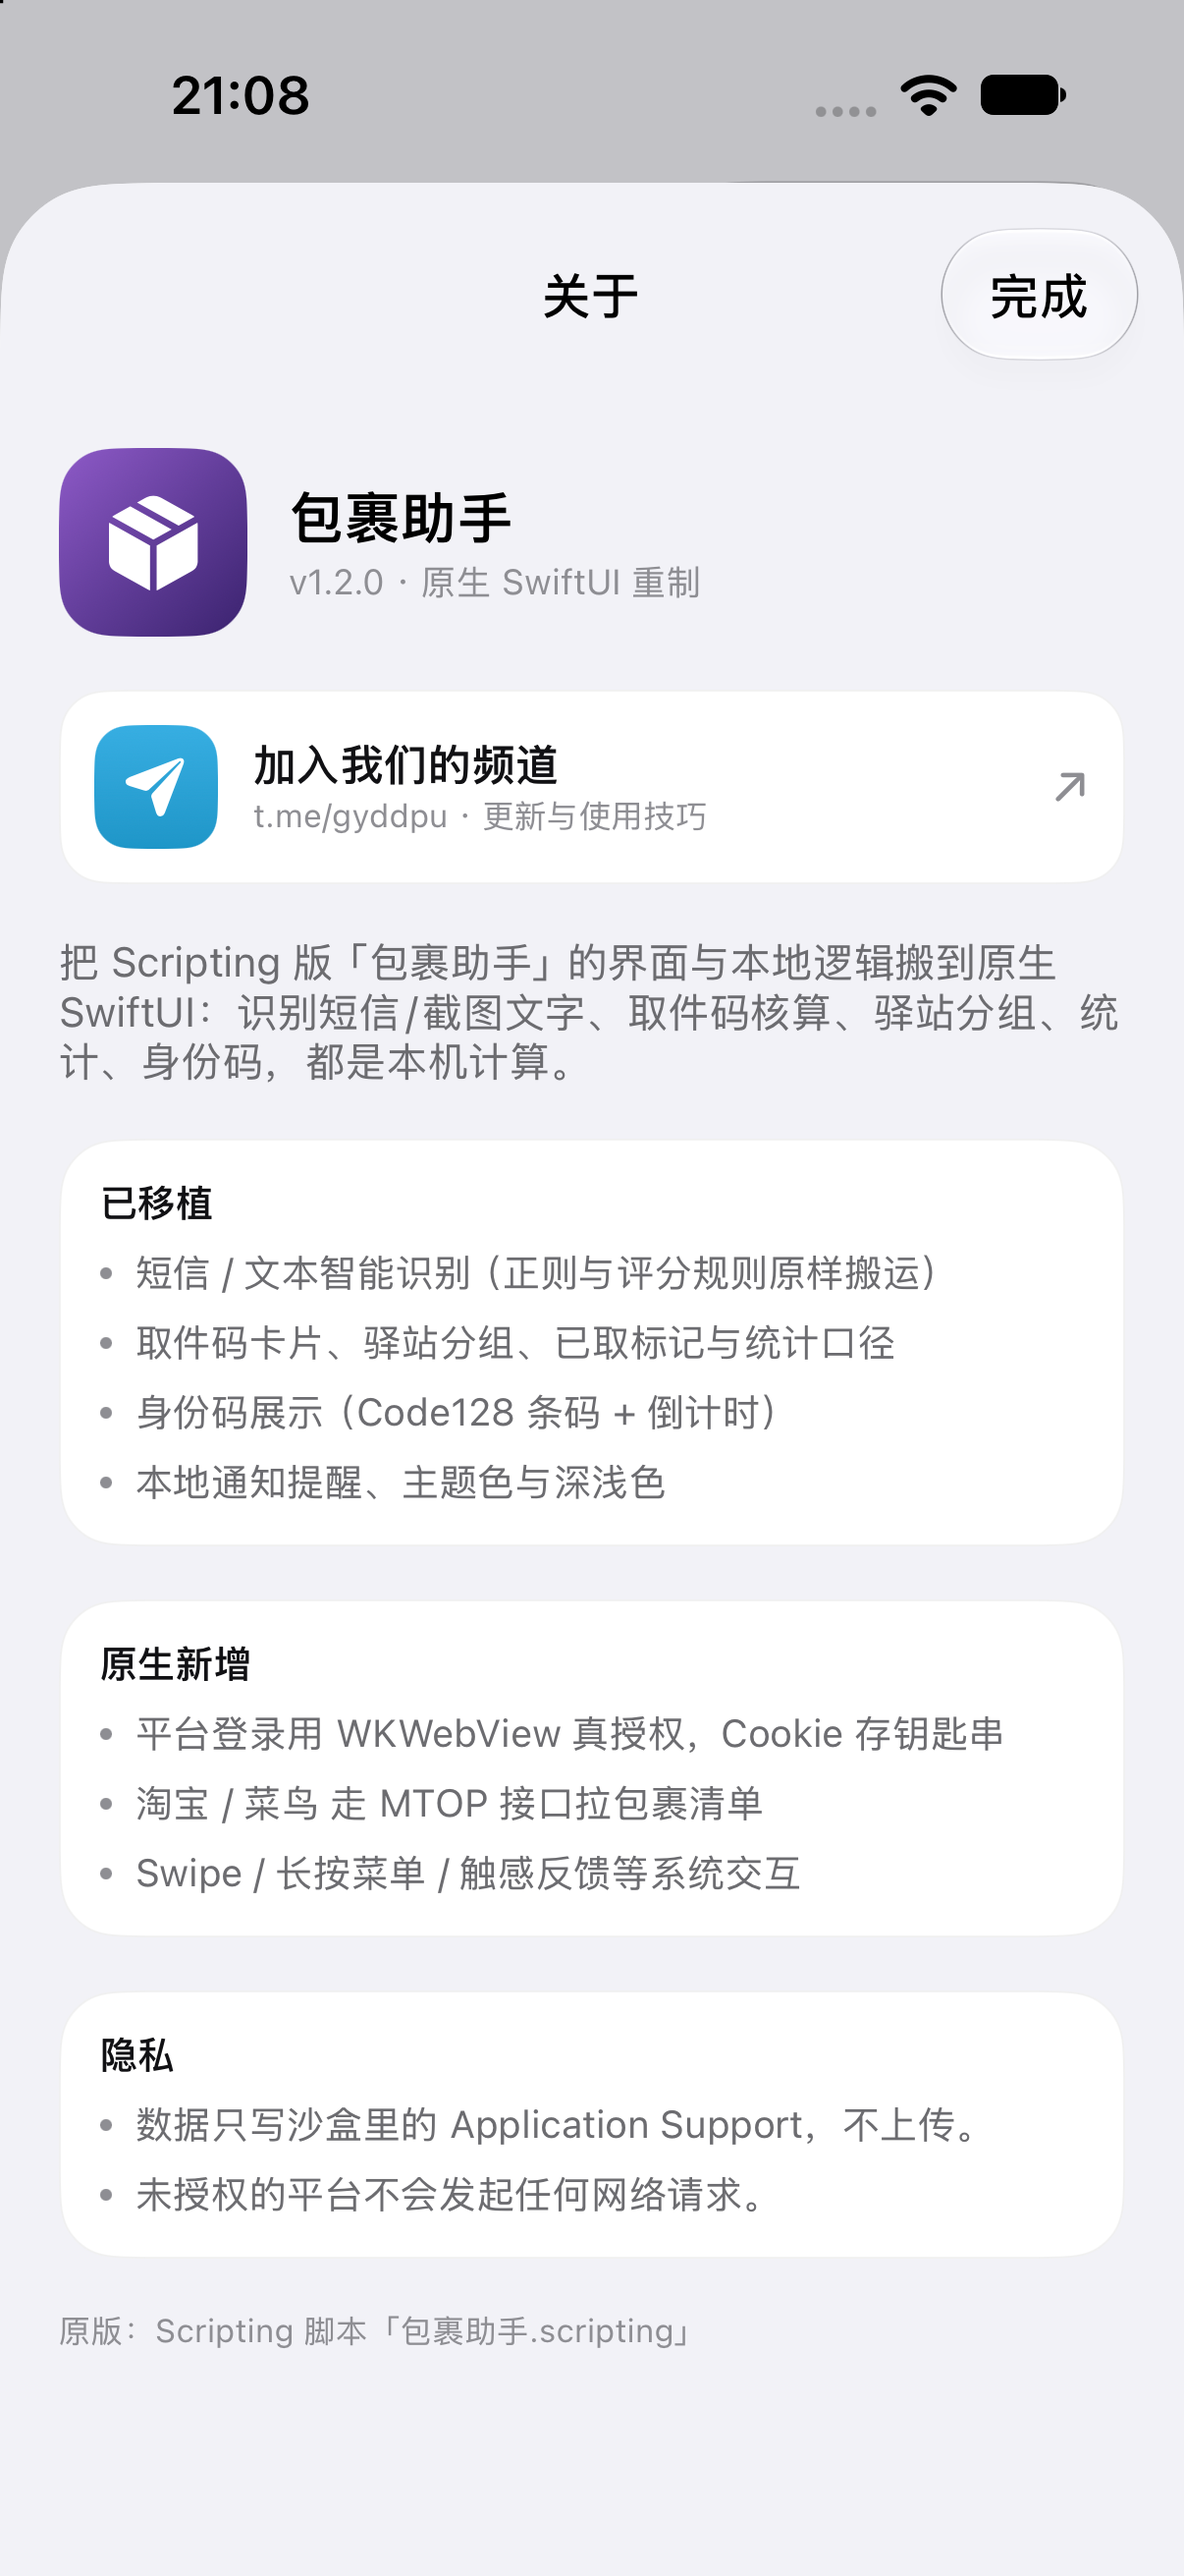
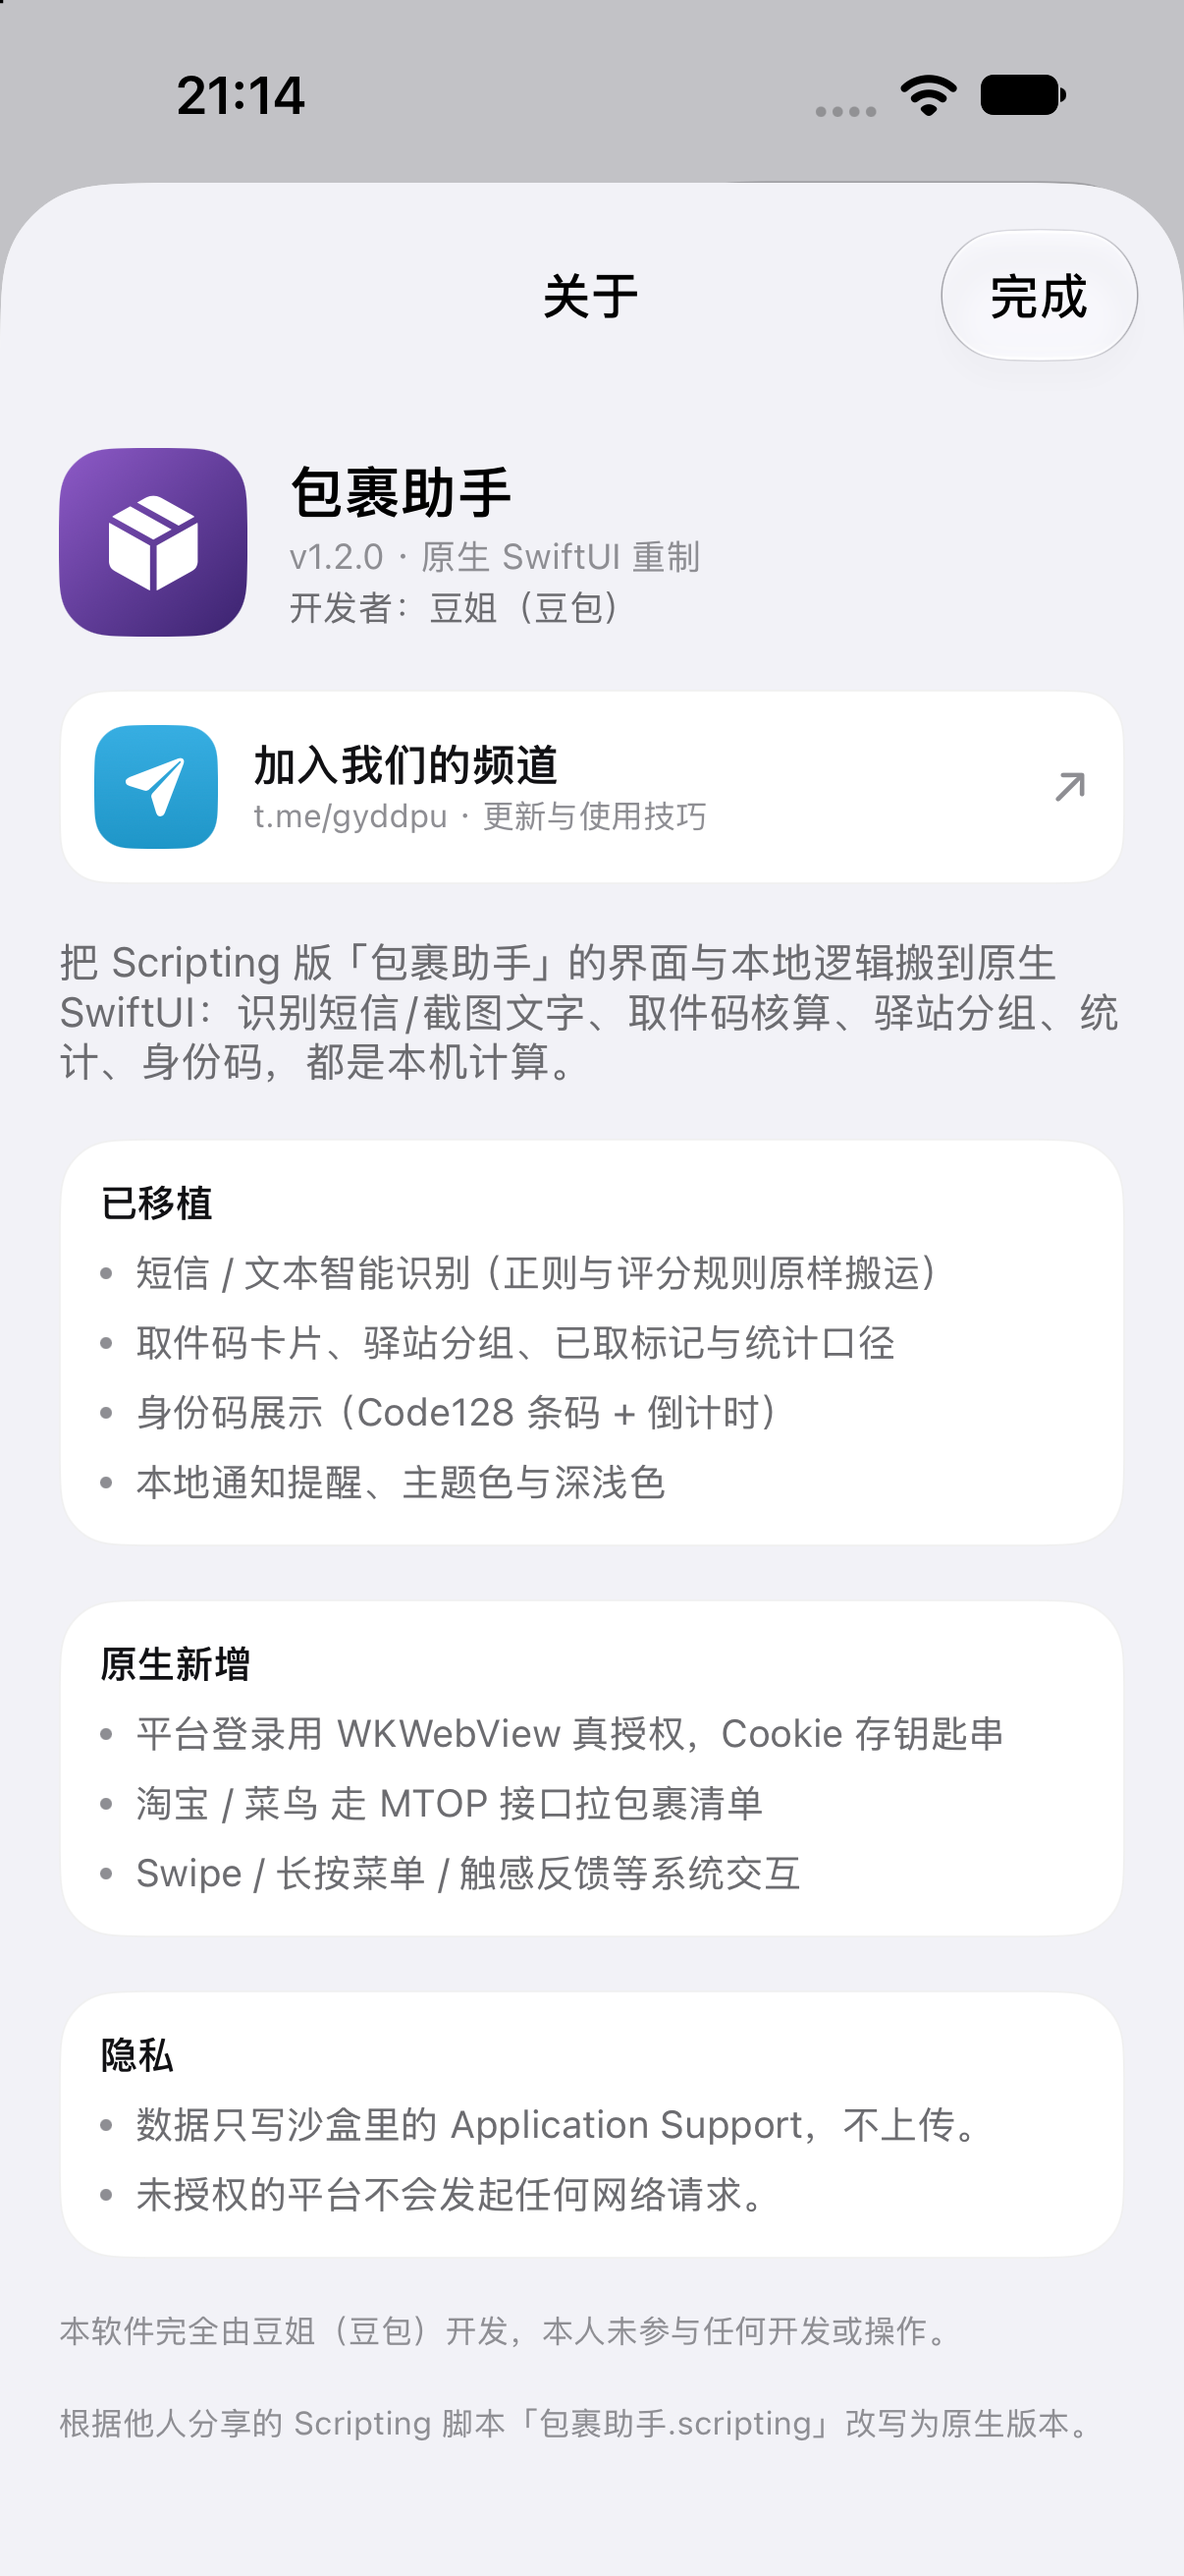
docs: 协议来源改为基于他人分享的 Scripting 脚本改写；补开发者署名

diff --git a/Box/UI/SettingsView.swift b/Box/UI/SettingsView.swift
@@ -427,6 +427,7 @@ struct AboutSheet: View {
                         VStack(alignment: .leading, spacing: 3) {
                             Text("包裹助手").font(.system(size: 20, weight: .semibold))
                             Text("v1.2.0 · 原生 SwiftUI 重制").font(.system(size: 12)).foregroundStyle(Palette.tertiary)
+                            Text("开发者：豆姐（豆包）").font(.system(size: 12)).foregroundStyle(Palette.secondary)
                         }
                     }
 
@@ -453,7 +454,11 @@ struct AboutSheet: View {
 
                     ])
 
-                    Text("原版：Scripting 脚本「包裹助手.scripting」")
+                    Text("本软件完全由豆姐（豆包）开发，本人未参与任何开发或操作。")
+                        .font(.system(size: 11))
+                        .foregroundStyle(Palette.tertiary)
+
+                    Text("根据他人分享的 Scripting 脚本「包裹助手.scripting」改写为原生版本。")
                         .font(.system(size: 11))
                         .foregroundStyle(Palette.tertiary)
                 }

diff --git a/README.md b/README.md
@@ -1,6 +1,6 @@
 # 包裹助手 · ParcelPal
 
-一个原生 SwiftUI 的快递 / 取件码管理 App：把 Scripting 脚本版「包裹助手」重写成 iOS 原生应用，
+一个原生 SwiftUI 的快递 / 取件码管理 App：根据他人分享的 Scripting 脚本「包裹助手」改写为原生应用，
 支持淘宝、菜鸟、京东、拼多多、丰巢、小米快递、快递鸟七个平台，本地识别短信、驿站分组、身份码、到站提醒与统计。
 
 - **最低系统**：iOS 15.0（iPhone）
@@ -150,14 +150,18 @@ Debug 构建支持启动参数：
 - 小米接口带 Android 设备字段（服务端是否校验未验证）；丰巢开柜需要真实在柜件。
 - 拼多多身份码接口未接入，因此不显示入口；桌面小组件、灵动岛、位置围栏暂未实现。
 
-## 协议参考
+## 说明与致谢
 
-各平台协议的字段与签名规则来自 Scripting 版脚本的逆向记录，其中部分参考了这些开源实现：
+本项目是根据他人分享的 Scripting 脚本「包裹助手」改写而来的原生版本：界面用 SwiftUI 重写，
+各平台的接口字段、请求签名、页面解析规则均沿用该脚本中已有的实现，按原逻辑移植到 Swift，
+没有对任何平台做额外的抓包或分析。
 
-- 丰巢：`leizh25/fengchao`
-- 拼多多 anti-content：`SuperXD`（express_anti_content）
-- 小米快递：`Halo0sama/ExpressAssistant`
-- 淘宝 MTOP / 菜鸟身份码：`polygongfw/pickup-assistant`
+- 原始脚本：Scripting 版「包裹助手」（作者分享的 `.scripting` 包）
+- 本仓库：在上述脚本基础上做的原生 SwiftUI 重写与工程化
+
+## 开发者
+
+**此软件完全由豆姐（豆包）开发，本人没有参与任何开发或操作。**
 
 ## 频道
 
